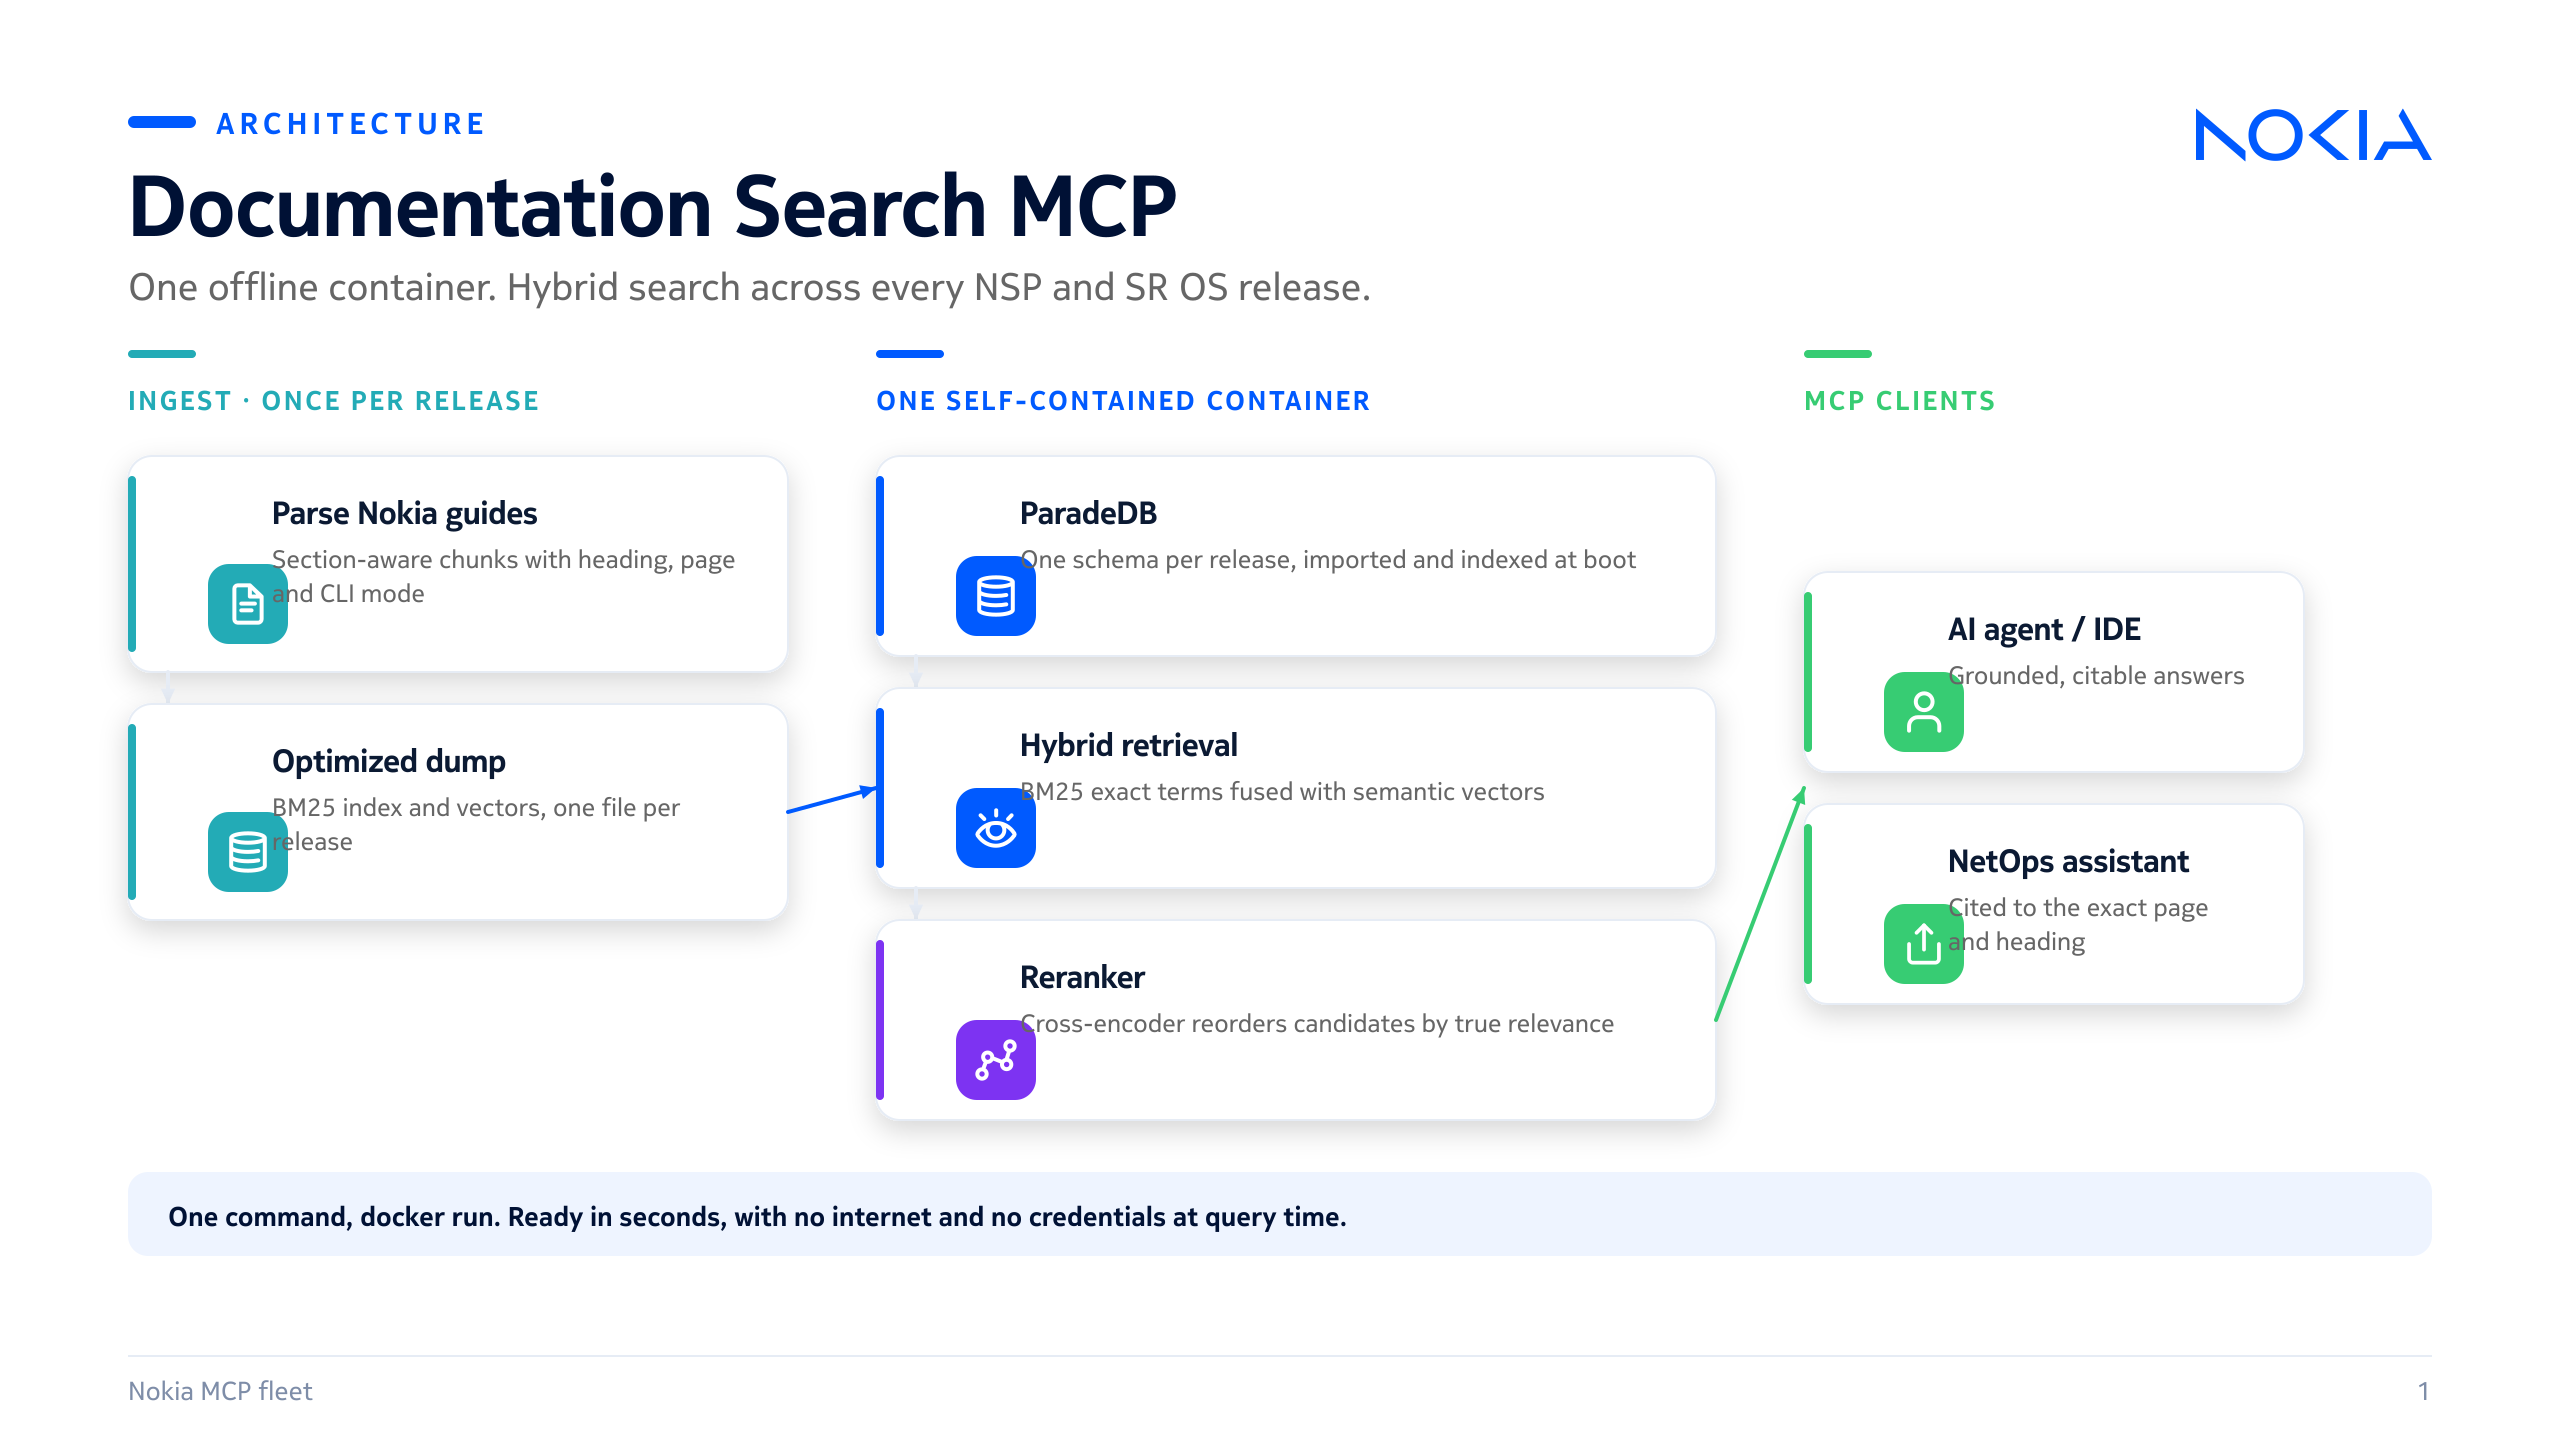
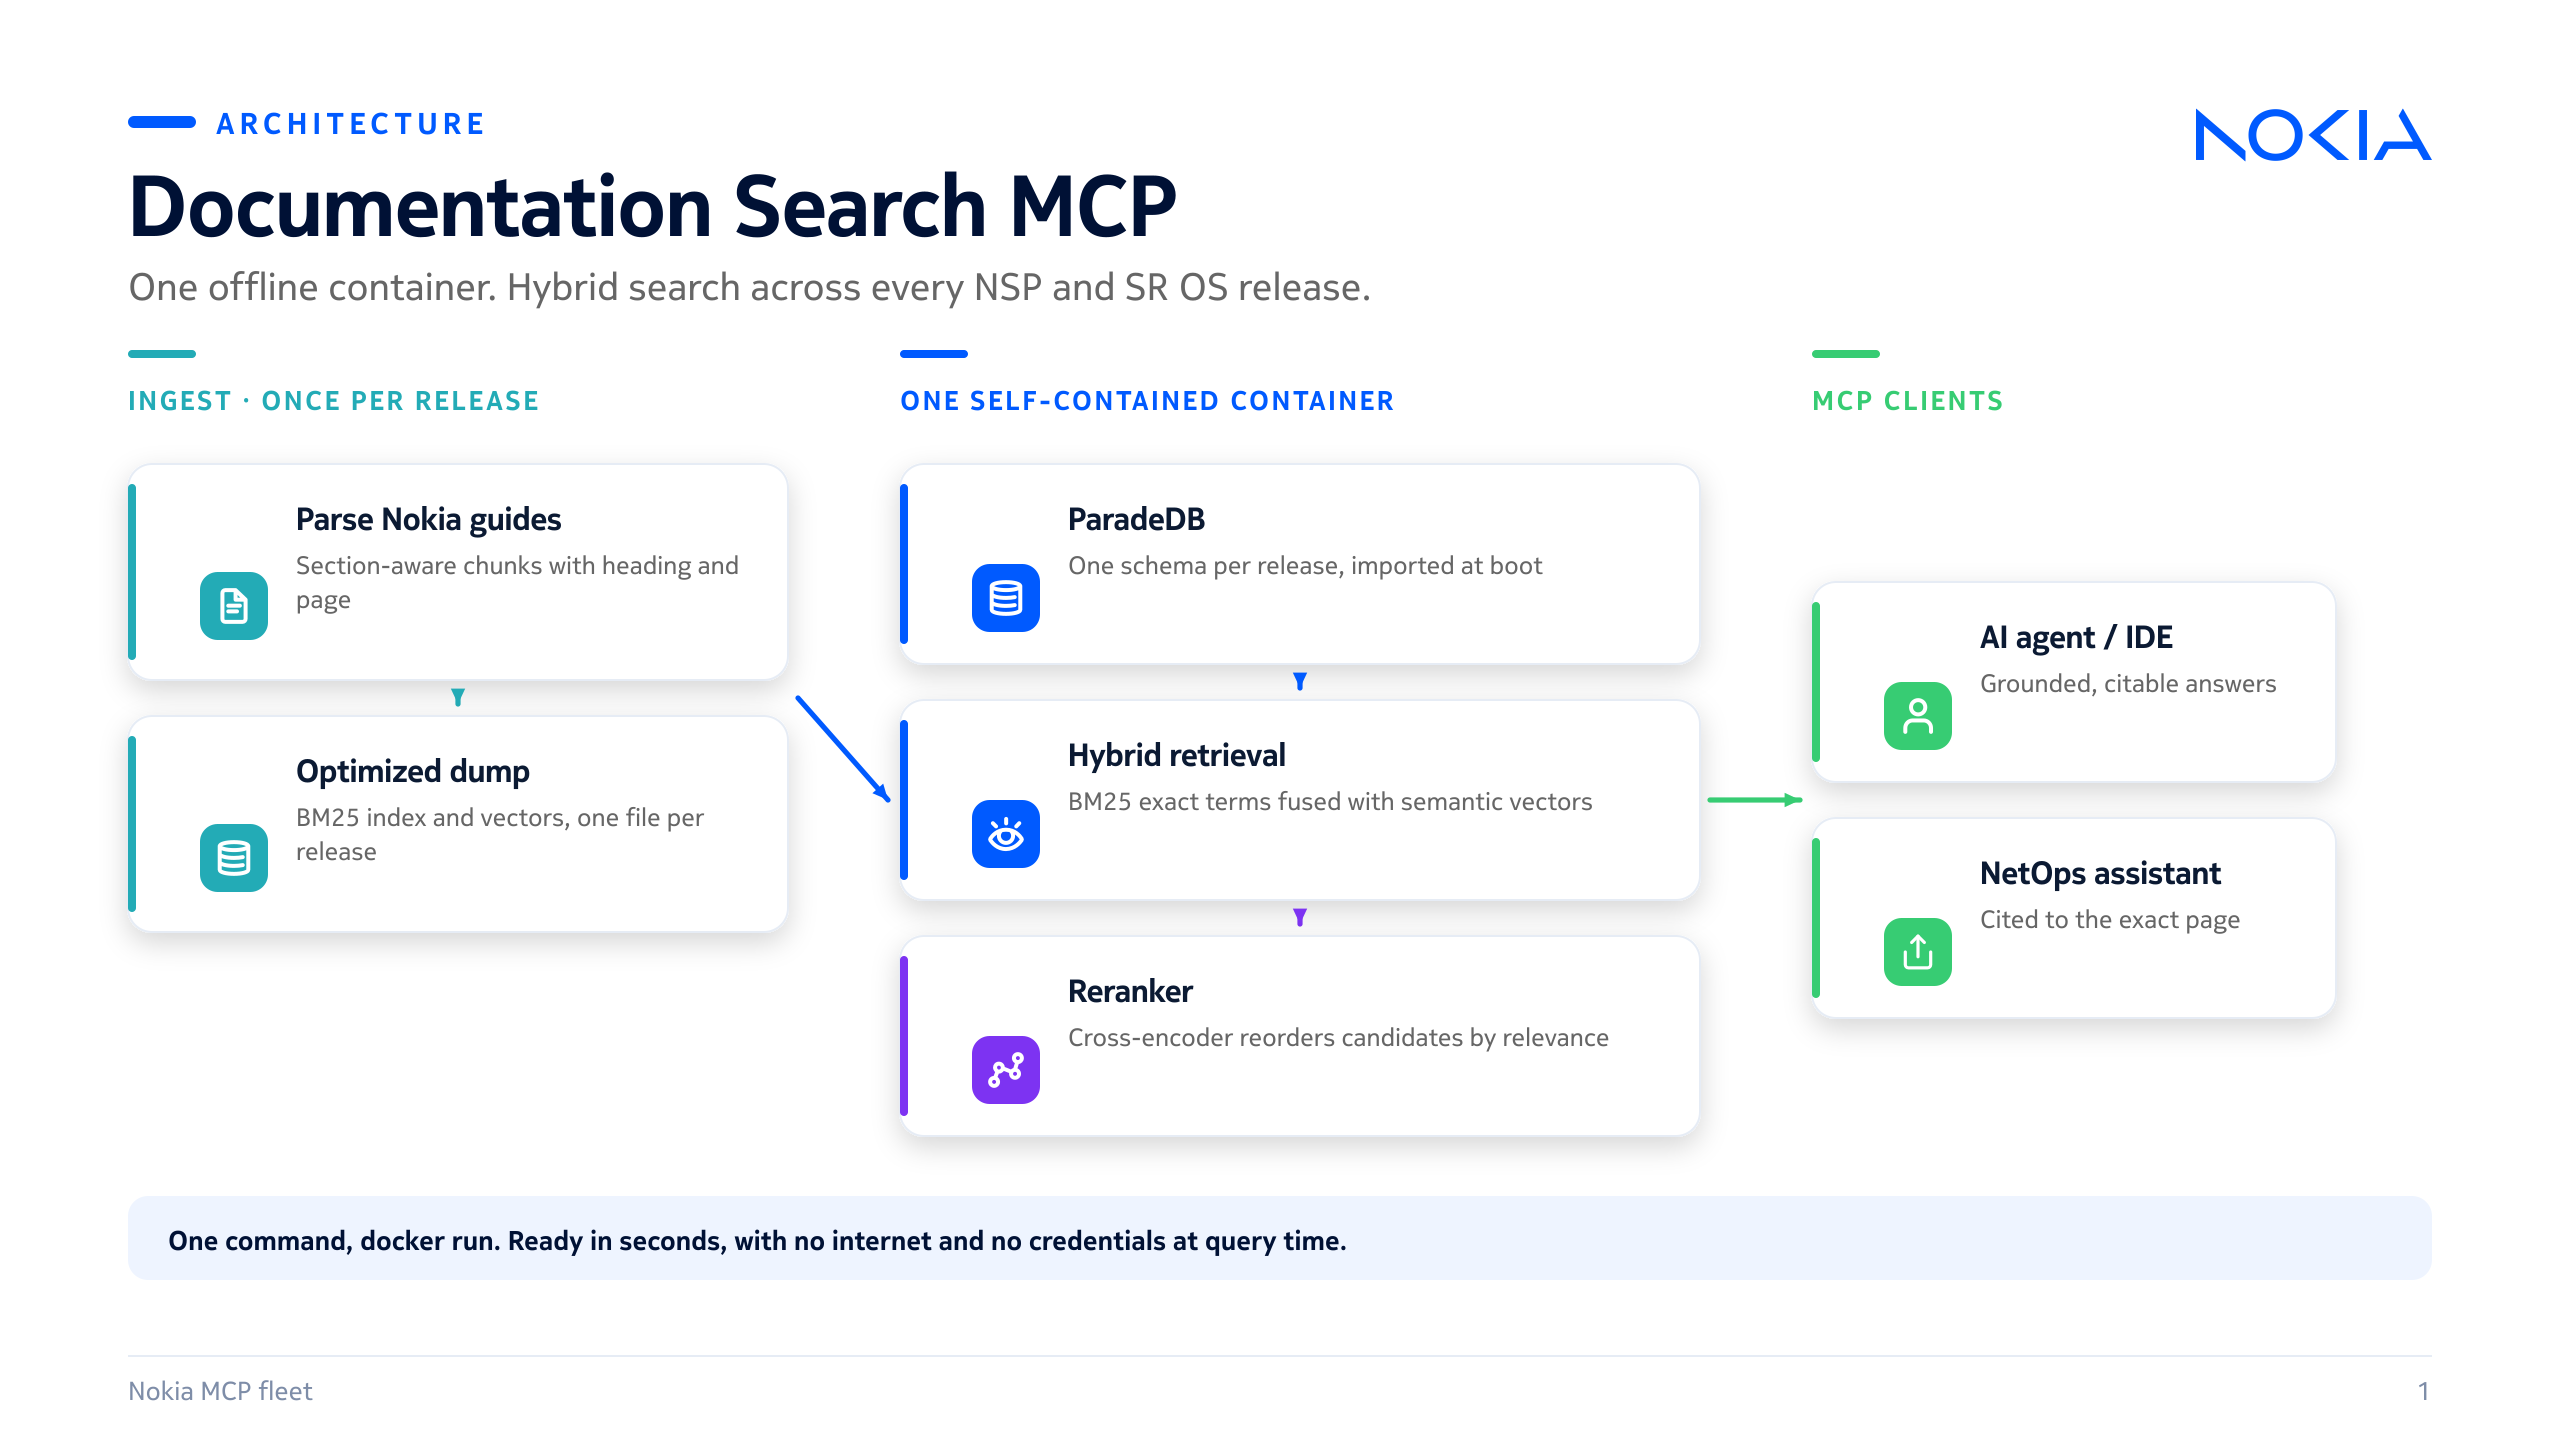
mcp-docs: fix broken diagram connectors, lead README with architecture visual
- Architecture diagram: the internal connector arrows were rendered in S.LINE
  (the pale card-border grey), making them nearly invisible, and the
  cross-column connectors ran as raw per-card diagonals that read as broken
  flow. Rebuilt with visible brand-colored connectors and proper arrowheads
  for every step, single group-to-group cross-column arrows with clearance
  margins instead of per-card diagonals, and fixed an icon/text overlap in
  every card (smaller icons, wider gap, single-line captions).
- README: moved the architecture diagram to right after the intro (lead with
  the visual) and removed the now-redundant duplicate under "Under the hood";
  replaced a vague CPU-only claim with the measured latency numbers (510 ms
  with reranking, 120 ms without); converted the closing bullet list to a
  table for consistency with the rest of the document.

diff --git a/README.md b/README.md
@@ -36,6 +36,16 @@ run it on a laptop or a locked-down NOC, and it just works.
 
 ---
 
+## Architecture
+
+![mcp-docs architecture diagram](docs/assets/architecture.png)
+
+Docs are parsed and indexed once per release, offline, into an optimized dump. At boot, the
+container imports the releases it's asked for, and every query runs the full hybrid-plus-reranker
+pipeline inside that one container: no external services, ever.
+
+---
+
 ## Why it's different
 
 | | |
@@ -160,11 +170,11 @@ No credentials, no secrets, no external services. Hand over the container and it
 
 ## Under the hood
 
-![mcp-docs architecture diagram](docs/assets/architecture.png)
-
-- **Engine:** ParadeDB (Postgres + `pg_search` BM25 + `pgvector` HNSW): top-tier lexical + vector search in one embedded store.
-- **Models:** `bge-small` embeddings + `ms-marco-MiniLM-L-12` cross-encoder reranker, both baked in, CPU-only (~19 ms + rerank).
-- **Portable:** everything is bundled and runs on CPU: no GPU, no cloud, no network.
+| | |
+|---|---|
+| **Engine** | ParadeDB (Postgres + `pg_search` BM25 + `pgvector` HNSW): top-tier lexical and vector search in one embedded store. |
+| **Models** | `bge-small` embeddings and an `ms-marco-MiniLM-L-12` cross-encoder reranker, both baked in, CPU-only: about 510 ms per search with reranking, 120 ms without. |
+| **Portable** | Everything is bundled and runs on CPU: no GPU, no cloud, no network. |
 
 <sub>Optional roadmap: a live-NSP mode that auto-detects your running release and routes docs to it (requires network + a read-only token), kept strictly optional so the default stays fully offline.</sub>
 